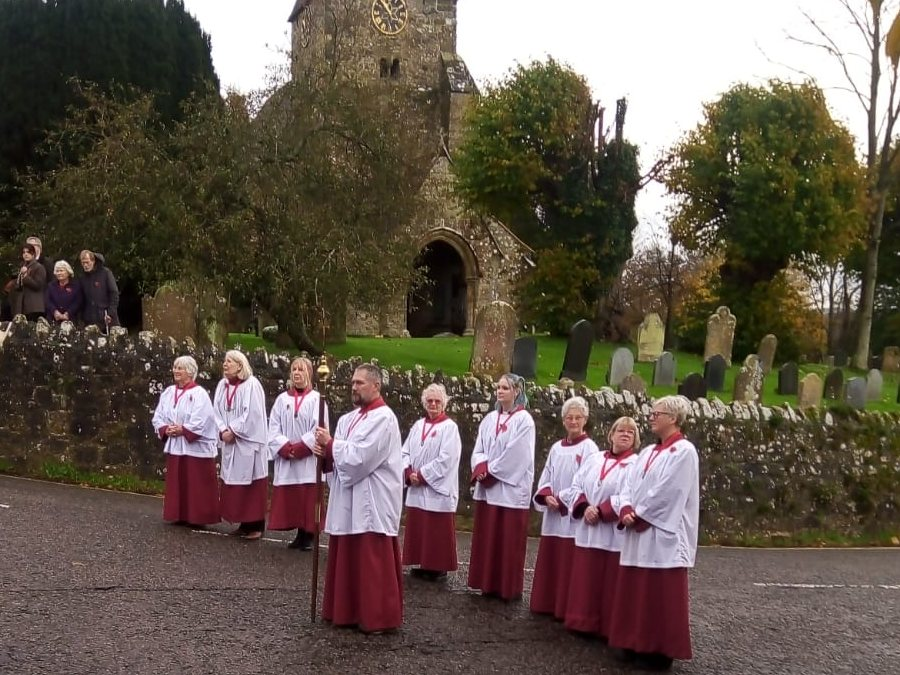
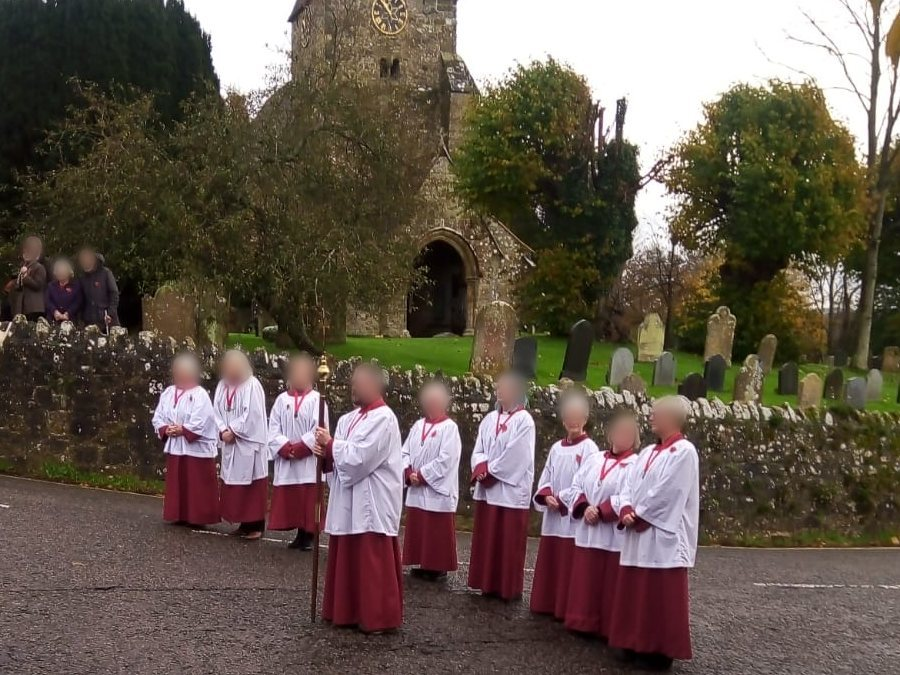
Candlemas Come and Sing (choir page, news); ringers photo; St Philip's toilet; blur faces in choir photos
Claude-Session: https://claude.ai/code/session_01Uvf1CUh4nCz5pMir3uE5t2

diff --git a/docs/news-2026-11-10-candlemas-come-and-sing.html b/docs/news-2026-11-10-candlemas-come-and-sing.html
@@ -1,0 +1,76 @@
+<!DOCTYPE html>
+<html lang="en-GB">
+<head>
+<meta charset="utf-8">
+<meta name="viewport" content="width=device-width, initial-scale=1">
+<title>Candlemas &#x27;Come and Sing&#x27;: Sunday 7 February | The Benefice of Burwash, Burwash Weald &amp; Etchingham</title>
+<meta name="description" content="Join the choir for our Candlemas service on Sunday 7 February. Everyone is welcome to come and sing, followed by tea at the Rectory.">
+<link rel="preconnect" href="https://fonts.googleapis.com">
+<link rel="preconnect" href="https://fonts.gstatic.com" crossorigin>
+<link href="https://fonts.googleapis.com/css2?family=Cormorant+Garamond:wght@500;600;700&family=Indie+Flower&family=Source+Sans+3:wght@400;600&display=swap" rel="stylesheet">
+<link rel="stylesheet" href="style.css">
+<link href="https://fonts.googleapis.com/css2?family=Bebas+Neue&family=Oswald:wght@200..500&display=swap" rel="stylesheet">
+<link rel="stylesheet" href="theme-mix.css">
+<link rel="icon" type="image/png" href="images/favicon.png">
+<link rel="apple-touch-icon" href="images/apple-touch-icon.png">
+</head>
+<body class="theme-mix">
+<a class="skip" href="#main">Skip to content</a>
+<header class="site-header">
+  <div class="wrap header-inner">
+    <a class="brand" href="index.html"><img class="logo-mark" src="images/crossburst.png" alt="" width="40" height="50"><span><span class="wm"><span class="nm"><b>B</b>urwash<span class="sep">,</span></span> <span class="nm"><b>B</b>urwash <b>W</b>eald<span class="sep">,</span></span> <span class="nm"><b>E</b>tchingham</span></span><span class="tagline">Worship for Everybody</span></span></a>
+    <button class="menu-toggle" aria-expanded="false" aria-controls="site-nav">Menu</button>
+    <nav id="site-nav" class="site-nav" aria-label="Main"><ul><li><a href="index.html">Home</a></li><li class="has-sub"><a href="services.html">Services</a><ul class="sub"><li><a href="services.html">Service calendar</a></li><li><a href="baptism.html">Baptism</a></li><li><a href="weddings.html">Weddings</a></li><li><a href="funerals.html">Funerals</a></li></ul></li><li class="has-sub"><a href="index.html#churches">Churches</a><ul class="sub"><li><a href="burwash.html">St Bartholomew&#x27;s, Burwash</a></li><li><a href="burwash-weald.html">St Philip&#x27;s, Burwash Weald</a></li><li><a href="etchingham.html">Etchingham</a></li></ul></li><li class="has-sub"><a href="get-involved.html">Get involved</a><ul class="sub"><li><a href="get-involved.html">All the ways to get involved</a></li><li><a href="choir.html">Choir</a></li><li><a href="bellringing.html">Bellringing</a></li><li><a href="get-involved.html#sidespeople">Sidespeople &amp; welcome</a></li><li><a href="get-involved.html#readers">Readers</a></li><li><a href="get-involved.html#3cs">3Cs: Coffee, Cake &amp; Chat</a></li><li><a href="get-involved.html#pastoral">Pastoral visiting</a></li><li><a href="get-involved.html#house-groups">House groups</a></li><li><a href="get-involved.html#toddlers">Toddler groups</a></li></ul></li><li><a href="news.html" class="active" aria-current="page">News</a></li><li><a href="safeguarding.html">Safeguarding</a></li><li><a href="contact.html">Contact</a></li><li class="nav-give"><a href="give.html">Give</a></li></ul></nav>
+  </div>
+</header>
+<main id="main">
+<div class="page-head"><div class="wrap"><p class="eyebrow">10 November 2026</p><h1>Candlemas &#x27;Come and Sing&#x27;: Sunday 7 February</h1></div></div><section class="block"><div class="wrap narrow prose"><div class="photo wide"><img src="images/choir-remembrance.jpg" alt=""></div><p>Do you enjoy singing? On <strong>Sunday 7 February</strong> everyone is welcome to join our choir for a Candlemas <strong>'Come and Sing'</strong> service at St Bartholomew's, Burwash.</p>
+<ul class="event-list">
+  <li><span class="d">2&ndash;4pm</span><span><strong>Rehearsal</strong> with the choir</span></li>
+  <li><span class="d">4.30pm</span><span><strong>Candlemas service</strong></span></li>
+  <li><span class="d">Afterwards</span><span><strong>Tea at the Rectory</strong></span></li>
+</ul>
+<p>There's no audition and you don't need to read music. Just come along and enjoy singing together. Candlemas marks the presentation of Christ in the Temple, when Simeon greeted him as "a light to lighten the Gentiles", and it's one of the loveliest services of the year.</p>
+<p>If you'd like to know more, <a href="contact.html">get in touch with the Rector</a>, or find out about <a href="choir.html">joining the choir</a> all year round.</p>
+<p style="margin-top:2rem"><a href="news.html">&larr; All news</a></p></div></section>
+</main>
+<footer class="site-footer">
+  <div class="wrap footer-grid">
+    <div>
+      <h2>Get in touch</h2>
+      <p>The Rector, Revd Thomas Pelham</p>
+      <p><a href="tel:+447856256174">07856 256 174</a><br>
+      <a href="mailto:revthomaspelham@gmail.com">revthomaspelham@gmail.com</a></p>
+      <p><a href="contact.html">Send us a message</a> &middot; <a href="https://www.facebook.com/profile.php?id=100087591101156">Facebook</a> &middot; <a href="https://chat.whatsapp.com/Hnf8zILV8Rk8XnDT7AK2zu">WhatsApp</a></p>
+    </div>
+    <div>
+      <h2>Our churches</h2>
+      <ul class="plain">
+        <li><a href="burwash.html">St Bartholomew's, Burwash</a></li>
+        <li><a href="burwash-weald.html">St Philip's, Burwash Weald</a></li>
+        <li><a href="etchingham.html">The Assumption of the Blessed Virgin &amp; St Nicholas, Etchingham</a></li>
+      </ul>
+    </div>
+    <div>
+      <h2>Support us</h2>
+      <p>Give regularly through the Parish Giving Scheme:</p>
+      <ul class="plain">
+        <li><a href="https://www.parishgiving.org.uk/donors/find-your-parish/burwash-st-bartholomews-etchingham">St Bartholomew's, Burwash</a></li>
+        <li><a href="https://www.parishgiving.org.uk/donors/find-your-parish/burwash-weald-st-philip-burwash-common">St Philip's, Burwash Weald</a></li>
+        <li><a href="https://www.parishgiving.org.uk/donors/find-your-parish/etchingham-st-mary-w-nicholas-hastings-tunbridge-wells">Etchingham</a></li>
+      </ul>
+    </div>
+    <div>
+      <h2>Safeguarding</h2>
+      <p>If you are worried about a child or adult, see our <a href="safeguarding.html">safeguarding page</a> for who to contact.</p>
+      <a class="cofe" href="https://www.churchofengland.org/"><img src="images/cofe-white.png" alt="The Church of England" width="90"></a>
+      <p class="small">Part of the Church of England, in the <a href="https://www.chichester.anglican.org/">Diocese of Chichester</a>.</p>
+    </div>
+  </div>
+</footer>
+<script>
+(function(){var b=document.querySelector('.menu-toggle'),n=document.getElementById('site-nav');
+b.addEventListener('click',function(){var o=n.classList.toggle('open');b.setAttribute('aria-expanded',o);});})();
+</script>
+</body>
+</html>

diff --git a/docs/news.html b/docs/news.html
@@ -24,7 +24,7 @@
   </div>
 </header>
 <main id="main">
-<div class="page-head"><div class="wrap"><h1>News</h1><p>What's happening across our three churches.</p></div></div><section class="block"><div class="wrap"><div class="wa-box"><div><h3>Weekly news on WhatsApp</h3><p>Join our WhatsApp community to get each week's services and events straight to your phone.</p></div><a class="btn wa-btn" href="https://chat.whatsapp.com/Hnf8zILV8Rk8XnDT7AK2zu">Join on WhatsApp</a></div><div class="grid-3"><a class="card news-card" href="news-2026-11-10-united-service-6-december.html"><div class="photo"><img src="images/etchingham-wide.jpg" alt="" loading="lazy"></div><div class="body"><p class="place">10 November 2026</p><h3>United benefice service on 6 December</h3><p>On Sunday 6 December we&#x27;ll gather as one benefice at Etchingham for the final celebration of the church&#x27;s 650th anniversary, with the Dean of Chichester.</p><span class="read">Read more &rarr;</span></div></a><a class="card news-card" href="news-2026-11-10-advent-and-christmas.html"><div class="photo"><img src="images/weald-view.jpg" alt="" loading="lazy"></div><div class="body"><p class="place">10 November 2026</p><h3>Advent and Christmas services</h3><p>Christingles, crib services and carols by candlelight across our three churches this Advent and Christmas.</p><span class="read">Read more &rarr;</span></div></a><a class="card news-card" href="news-2026-11-10-christmas-tree-festival.html"><div class="photo"><img src="images/burwash-aerial.jpg" alt="" loading="lazy"></div><div class="body"><p class="place">9 November 2026</p><h3>Christmas Tree Festival at St Bartholomew&#x27;s</h3><p>St Bartholomew&#x27;s will be filled with Christmas trees from Saturday 28 November to Wednesday 2 December, with evening entertainment on the opening night.</p><span class="read">Read more &rarr;</span></div></a></div></div></section>
+<div class="page-head"><div class="wrap"><h1>News</h1><p>What's happening across our three churches.</p></div></div><section class="block"><div class="wrap"><div class="wa-box"><div><h3>Weekly news on WhatsApp</h3><p>Join our WhatsApp community to get each week's services and events straight to your phone.</p></div><a class="btn wa-btn" href="https://chat.whatsapp.com/Hnf8zILV8Rk8XnDT7AK2zu">Join on WhatsApp</a></div><div class="grid-3"><a class="card news-card" href="news-2026-11-10-united-service-6-december.html"><div class="photo"><img src="images/etchingham-wide.jpg" alt="" loading="lazy"></div><div class="body"><p class="place">10 November 2026</p><h3>United benefice service on 6 December</h3><p>On Sunday 6 December we&#x27;ll gather as one benefice at Etchingham for the final celebration of the church&#x27;s 650th anniversary, with the Dean of Chichester.</p><span class="read">Read more &rarr;</span></div></a><a class="card news-card" href="news-2026-11-10-candlemas-come-and-sing.html"><div class="photo"><img src="images/choir-remembrance.jpg" alt="" loading="lazy"></div><div class="body"><p class="place">10 November 2026</p><h3>Candlemas &#x27;Come and Sing&#x27;: Sunday 7 February</h3><p>Join the choir for our Candlemas service on Sunday 7 February. Everyone is welcome to come and sing, followed by tea at the Rectory.</p><span class="read">Read more &rarr;</span></div></a><a class="card news-card" href="news-2026-11-10-advent-and-christmas.html"><div class="photo"><img src="images/weald-view.jpg" alt="" loading="lazy"></div><div class="body"><p class="place">10 November 2026</p><h3>Advent and Christmas services</h3><p>Christingles, crib services and carols by candlelight across our three churches this Advent and Christmas.</p><span class="read">Read more &rarr;</span></div></a><a class="card news-card" href="news-2026-11-10-christmas-tree-festival.html"><div class="photo"><img src="images/burwash-aerial.jpg" alt="" loading="lazy"></div><div class="body"><p class="place">9 November 2026</p><h3>Christmas Tree Festival at St Bartholomew&#x27;s</h3><p>St Bartholomew&#x27;s will be filled with Christmas trees from Saturday 28 November to Wednesday 2 December, with evening entertainment on the opening night.</p><span class="read">Read more &rarr;</span></div></a></div></div></section>
 </main>
 <footer class="site-footer">
   <div class="wrap footer-grid">

diff --git a/docs/index.html b/docs/index.html
@@ -105,7 +105,7 @@
 <section class="block" id="news">
   <div class="wrap">
     <div class="section-head"><h2>Latest news</h2><a href="news.html">All news &rarr;</a></div>
-    <div class="grid-3"><a class="card news-card" href="news-2026-11-10-united-service-6-december.html"><div class="photo"><img src="images/etchingham-wide.jpg" alt="" loading="lazy"></div><div class="body"><p class="place">10 November 2026</p><h3>United benefice service on 6 December</h3><p>On Sunday 6 December we&#x27;ll gather as one benefice at Etchingham for the final celebration of the church&#x27;s 650th anniversary, with the Dean of Chichester.</p><span class="read">Read more &rarr;</span></div></a><a class="card news-card" href="news-2026-11-10-advent-and-christmas.html"><div class="photo"><img src="images/weald-view.jpg" alt="" loading="lazy"></div><div class="body"><p class="place">10 November 2026</p><h3>Advent and Christmas services</h3><p>Christingles, crib services and carols by candlelight across our three churches this Advent and Christmas.</p><span class="read">Read more &rarr;</span></div></a><a class="card news-card" href="news-2026-11-10-christmas-tree-festival.html"><div class="photo"><img src="images/burwash-aerial.jpg" alt="" loading="lazy"></div><div class="body"><p class="place">9 November 2026</p><h3>Christmas Tree Festival at St Bartholomew&#x27;s</h3><p>St Bartholomew&#x27;s will be filled with Christmas trees from Saturday 28 November to Wednesday 2 December, with evening entertainment on the opening night.</p><span class="read">Read more &rarr;</span></div></a></div>
+    <div class="grid-3"><a class="card news-card" href="news-2026-11-10-united-service-6-december.html"><div class="photo"><img src="images/etchingham-wide.jpg" alt="" loading="lazy"></div><div class="body"><p class="place">10 November 2026</p><h3>United benefice service on 6 December</h3><p>On Sunday 6 December we&#x27;ll gather as one benefice at Etchingham for the final celebration of the church&#x27;s 650th anniversary, with the Dean of Chichester.</p><span class="read">Read more &rarr;</span></div></a><a class="card news-card" href="news-2026-11-10-candlemas-come-and-sing.html"><div class="photo"><img src="images/choir-remembrance.jpg" alt="" loading="lazy"></div><div class="body"><p class="place">10 November 2026</p><h3>Candlemas &#x27;Come and Sing&#x27;: Sunday 7 February</h3><p>Join the choir for our Candlemas service on Sunday 7 February. Everyone is welcome to come and sing, followed by tea at the Rectory.</p><span class="read">Read more &rarr;</span></div></a><a class="card news-card" href="news-2026-11-10-advent-and-christmas.html"><div class="photo"><img src="images/weald-view.jpg" alt="" loading="lazy"></div><div class="body"><p class="place">10 November 2026</p><h3>Advent and Christmas services</h3><p>Christingles, crib services and carols by candlelight across our three churches this Advent and Christmas.</p><span class="read">Read more &rarr;</span></div></a></div>
     <div class="wa-box"><div><h3>Weekly news on WhatsApp</h3><p>Join our WhatsApp community to get each week's services and events straight to your phone.</p></div><a class="btn wa-btn" href="https://chat.whatsapp.com/Hnf8zILV8Rk8XnDT7AK2zu">Join on WhatsApp</a></div>
   </div>
 </section>

diff --git a/src/news/2026-11-10-candlemas-come-and-sing.html b/src/news/2026-11-10-candlemas-come-and-sing.html
@@ -1,0 +1,13 @@
+title: Candlemas 'Come and Sing': Sunday 7 February
+date: 2026-11-10
+summary: Join the choir for our Candlemas service on Sunday 7 February. Everyone is welcome to come and sing, followed by tea at the Rectory.
+image: images/choir-remembrance.jpg
+---
+<p>Do you enjoy singing? On <strong>Sunday 7 February</strong> everyone is welcome to join our choir for a Candlemas <strong>'Come and Sing'</strong> service at St Bartholomew's, Burwash.</p>
+<ul class="event-list">
+  <li><span class="d">2&ndash;4pm</span><span><strong>Rehearsal</strong> with the choir</span></li>
+  <li><span class="d">4.30pm</span><span><strong>Candlemas service</strong></span></li>
+  <li><span class="d">Afterwards</span><span><strong>Tea at the Rectory</strong></span></li>
+</ul>
+<p>There's no audition and you don't need to read music. Just come along and enjoy singing together. Candlemas marks the presentation of Christ in the Temple, when Simeon greeted him as "a light to lighten the Gentiles", and it's one of the loveliest services of the year.</p>
+<p>If you'd like to know more, <a href="contact.html">get in touch with the Rector</a>, or find out about <a href="choir.html">joining the choir</a> all year round.</p>

diff --git a/src/pages/choir.html b/src/pages/choir.html
@@ -13,6 +13,12 @@ description: Join the benefice choir: rehearsals on Wednesdays at 6pm, all ages 
     </div>
     <div>
       <div class="photo" style="border:1px solid var(--line);border-radius:var(--radius)"><img src="images/choir.jpg" alt="The robed choir standing outside St Bartholomew's Church, Burwash"></div>
+      <div class="give-box" style="margin-top:1.5rem">
+        <h3>Candlemas 'Come and Sing': Sunday 7 February</h3>
+        <p>Everyone is welcome to join us and sing with the choir for our Candlemas service. No audition, and no need to read music.</p>
+        <ul class="plain"><li><strong>2&ndash;4pm</strong> rehearsal</li><li><strong>4.30pm</strong> Candlemas service</li><li>Tea at the Rectory afterwards</li></ul>
+        <p class="small" style="margin:.5rem 0 0">At St Bartholomew's, Burwash. <a href="news-2026-11-10-candlemas-come-and-sing.html">More details</a></p>
+      </div>
       <div class="facts">
         <h3>Rehearsals</h3>
         <dl>

diff --git a/docs/choir.html b/docs/choir.html
@@ -35,6 +35,12 @@
     </div>
     <div>
       <div class="photo" style="border:1px solid var(--line);border-radius:var(--radius)"><img src="images/choir.jpg" alt="The robed choir standing outside St Bartholomew's Church, Burwash"></div>
+      <div class="give-box" style="margin-top:1.5rem">
+        <h3>Candlemas 'Come and Sing': Sunday 7 February</h3>
+        <p>Everyone is welcome to join us and sing with the choir for our Candlemas service. No audition, and no need to read music.</p>
+        <ul class="plain"><li><strong>2&ndash;4pm</strong> rehearsal</li><li><strong>4.30pm</strong> Candlemas service</li><li>Tea at the Rectory afterwards</li></ul>
+        <p class="small" style="margin:.5rem 0 0">At St Bartholomew's, Burwash. <a href="news-2026-11-10-candlemas-come-and-sing.html">More details</a></p>
+      </div>
       <div class="facts">
         <h3>Rehearsals</h3>
         <dl>

diff --git a/src/pages/get-involved.html b/src/pages/get-involved.html
@@ -14,6 +14,7 @@ description: Ways to get involved in the churches of Burwash, Burwash Weald and 
         <span class="more">Find out more &rarr;</span>
       </a>
       <a class="inv" href="bellringing.html">
+        <div class="exp-photo"><img src="images/bellringers.jpg" alt="Ringers in the ringing chamber" loading="lazy"></div>
         <h3>Bellringing</h3>
         <p class="when">Tuesdays, 7.30pm, St Bartholomew's tower</p>
         <p>Keep a centuries-old tradition alive. Beginners welcome, and training is provided.</p>

diff --git a/src/pages/bellringing.html b/src/pages/bellringing.html
@@ -12,6 +12,7 @@ description: Learn to ring church bells: practice on Tuesday evenings, beginners
       <p>Come up the tower one Tuesday evening to watch, meet the band and have a go if you'd like.</p>
     </div>
     <div>
+      <div class="photo" style="border:1px solid var(--line);border-radius:var(--radius)"><img src="images/bellringers.jpg" alt="Three ringers ringing bells in the ringing chamber"></div>
       <div class="facts">
         <h3>Practice night</h3>
         <dl>

diff --git a/src/pages/burwash-weald.html b/src/pages/burwash-weald.html
@@ -20,7 +20,7 @@ wordmark: <b>S</b>t <b>P</b>hilip's<br><b>B</b>urwash <b>W</b>eald
         <dl>
           <dt>Where</dt><dd>Stonegate Road, Burwash Weald</dd>
           <dt>Parking</dt><dd>Use the Burwash Weald Pavilion car park, opposite the church gate.</dd>
-          <dt>Toilets</dt><dd>The toilet is currently out of action except in emergencies.</dd>
+          <dt>Toilets</dt><dd>There is a toilet in church.</dd>
         </dl>
       </div>
       <div class="give-box">

diff --git a/docs/get-involved.html b/docs/get-involved.html
@@ -36,6 +36,7 @@
         <span class="more">Find out more &rarr;</span>
       </a>
       <a class="inv" href="bellringing.html">
+        <div class="exp-photo"><img src="images/bellringers.jpg" alt="Ringers in the ringing chamber" loading="lazy"></div>
         <h3>Bellringing</h3>
         <p class="when">Tuesdays, 7.30pm, St Bartholomew's tower</p>
         <p>Keep a centuries-old tradition alive. Beginners welcome, and training is provided.</p>

diff --git a/docs/burwash-weald.html b/docs/burwash-weald.html
@@ -41,7 +41,7 @@
         <dl>
           <dt>Where</dt><dd>Stonegate Road, Burwash Weald</dd>
           <dt>Parking</dt><dd>Use the Burwash Weald Pavilion car park, opposite the church gate.</dd>
-          <dt>Toilets</dt><dd>The toilet is currently out of action except in emergencies.</dd>
+          <dt>Toilets</dt><dd>There is a toilet in church.</dd>
         </dl>
       </div>
       <div class="give-box">

diff --git a/docs/bellringing.html b/docs/bellringing.html
@@ -34,6 +34,7 @@
       <p>Come up the tower one Tuesday evening to watch, meet the band and have a go if you'd like.</p>
     </div>
     <div>
+      <div class="photo" style="border:1px solid var(--line);border-radius:var(--radius)"><img src="images/bellringers.jpg" alt="Three ringers ringing bells in the ringing chamber"></div>
       <div class="facts">
         <h3>Practice night</h3>
         <dl>
